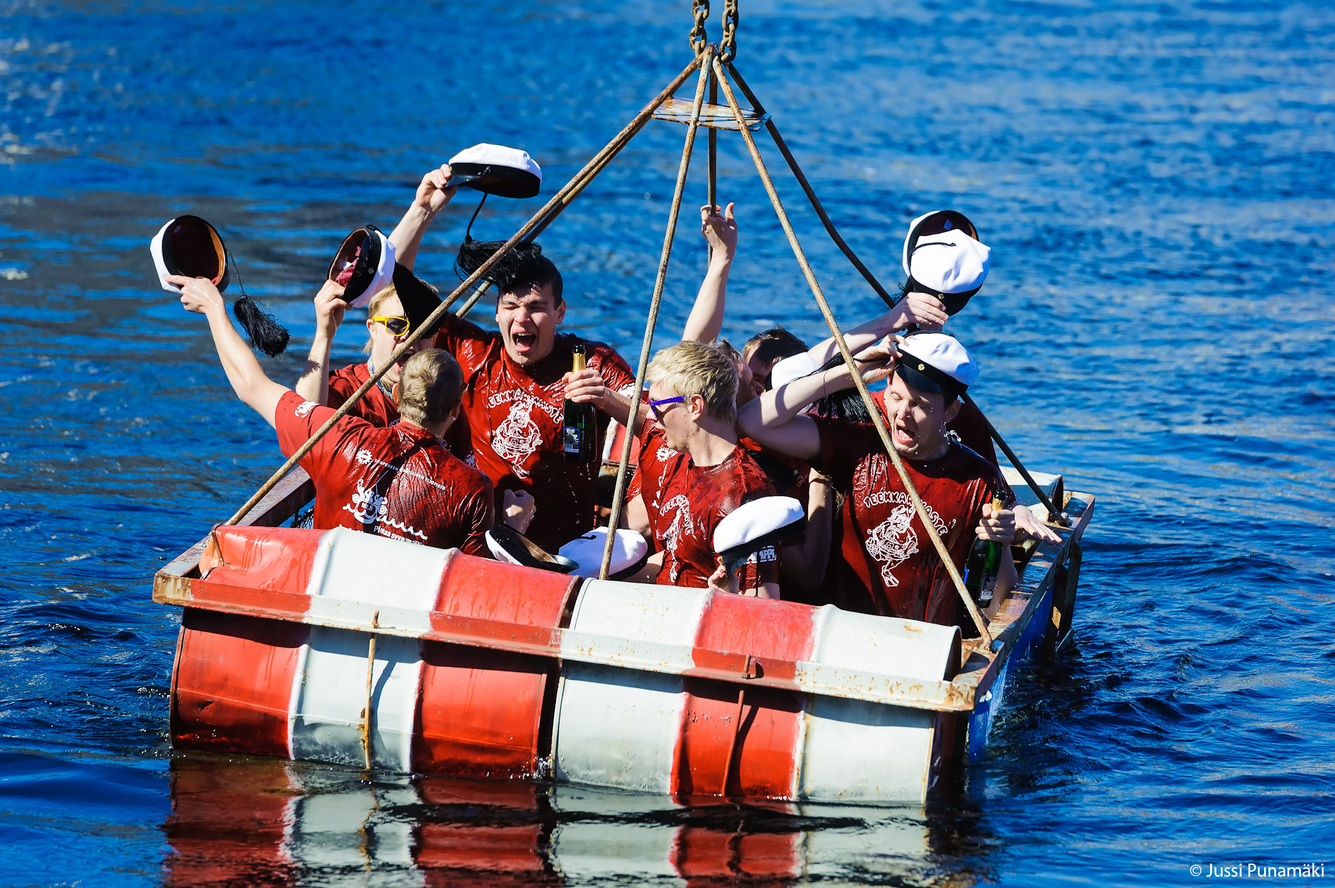
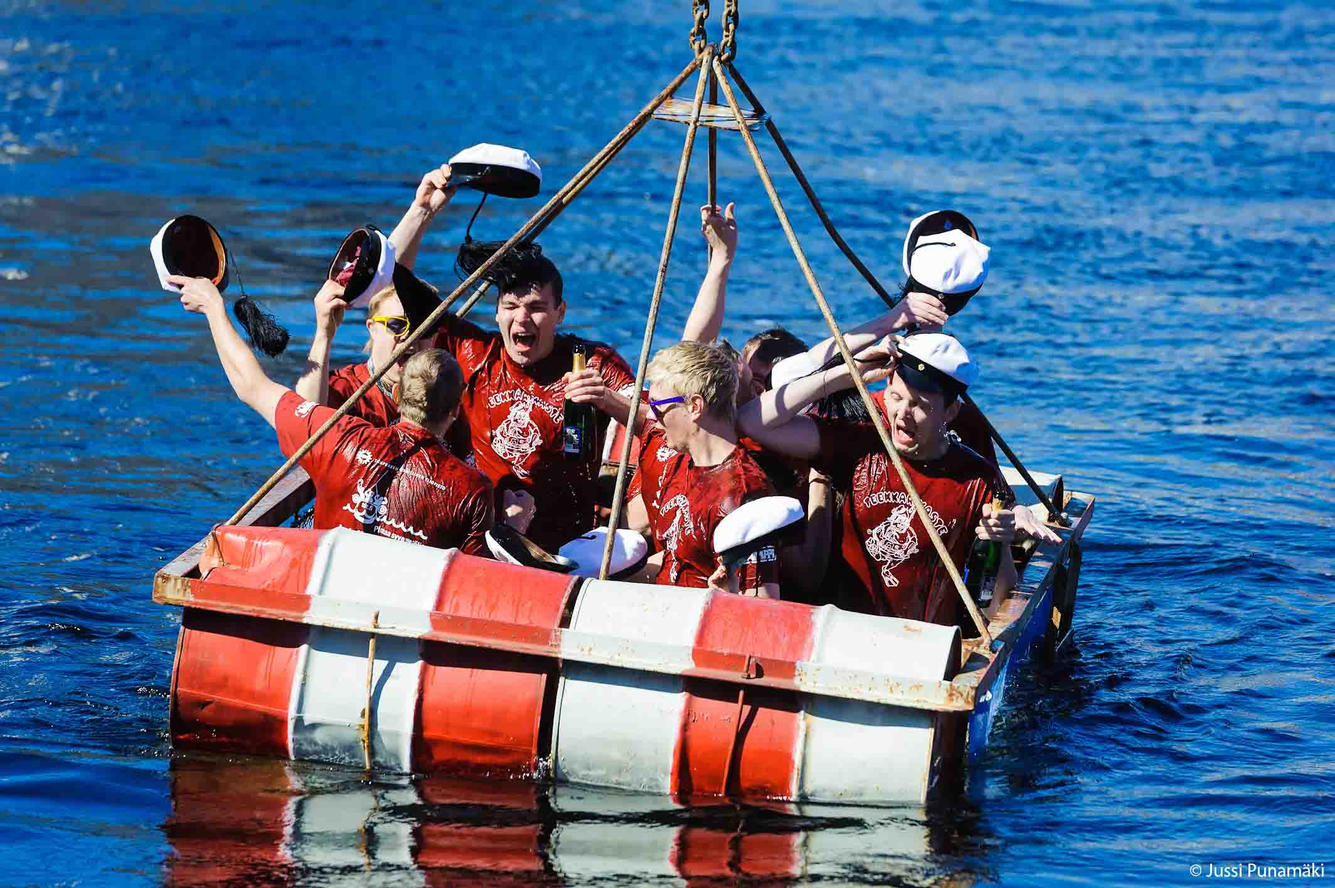
Add compression middleware, compress background image more and remove unused images

diff --git a/server/http.js b/server/http.js
@@ -1,11 +1,15 @@
-var express = require('express')
-var app     = express();
-var server  = require('http').createServer(app);
-var io      = require('socket.io')(server);
-var favicon = require('serve-favicon');
+const express       = require('express')
+const app           = express();
+const server        = require('http').createServer(app);
+const io            = require('socket.io')(server);
+const favicon       = require('serve-favicon');
+const compression   = require('compression');
 
 var cfg     = require('../config');
 var logger  = require('../logger');
+
+// Configure middleware
+app.use(compression());
 
 // Configure static paths to www content
 app.use(express.static(cfg.publicPath + '/views'));
